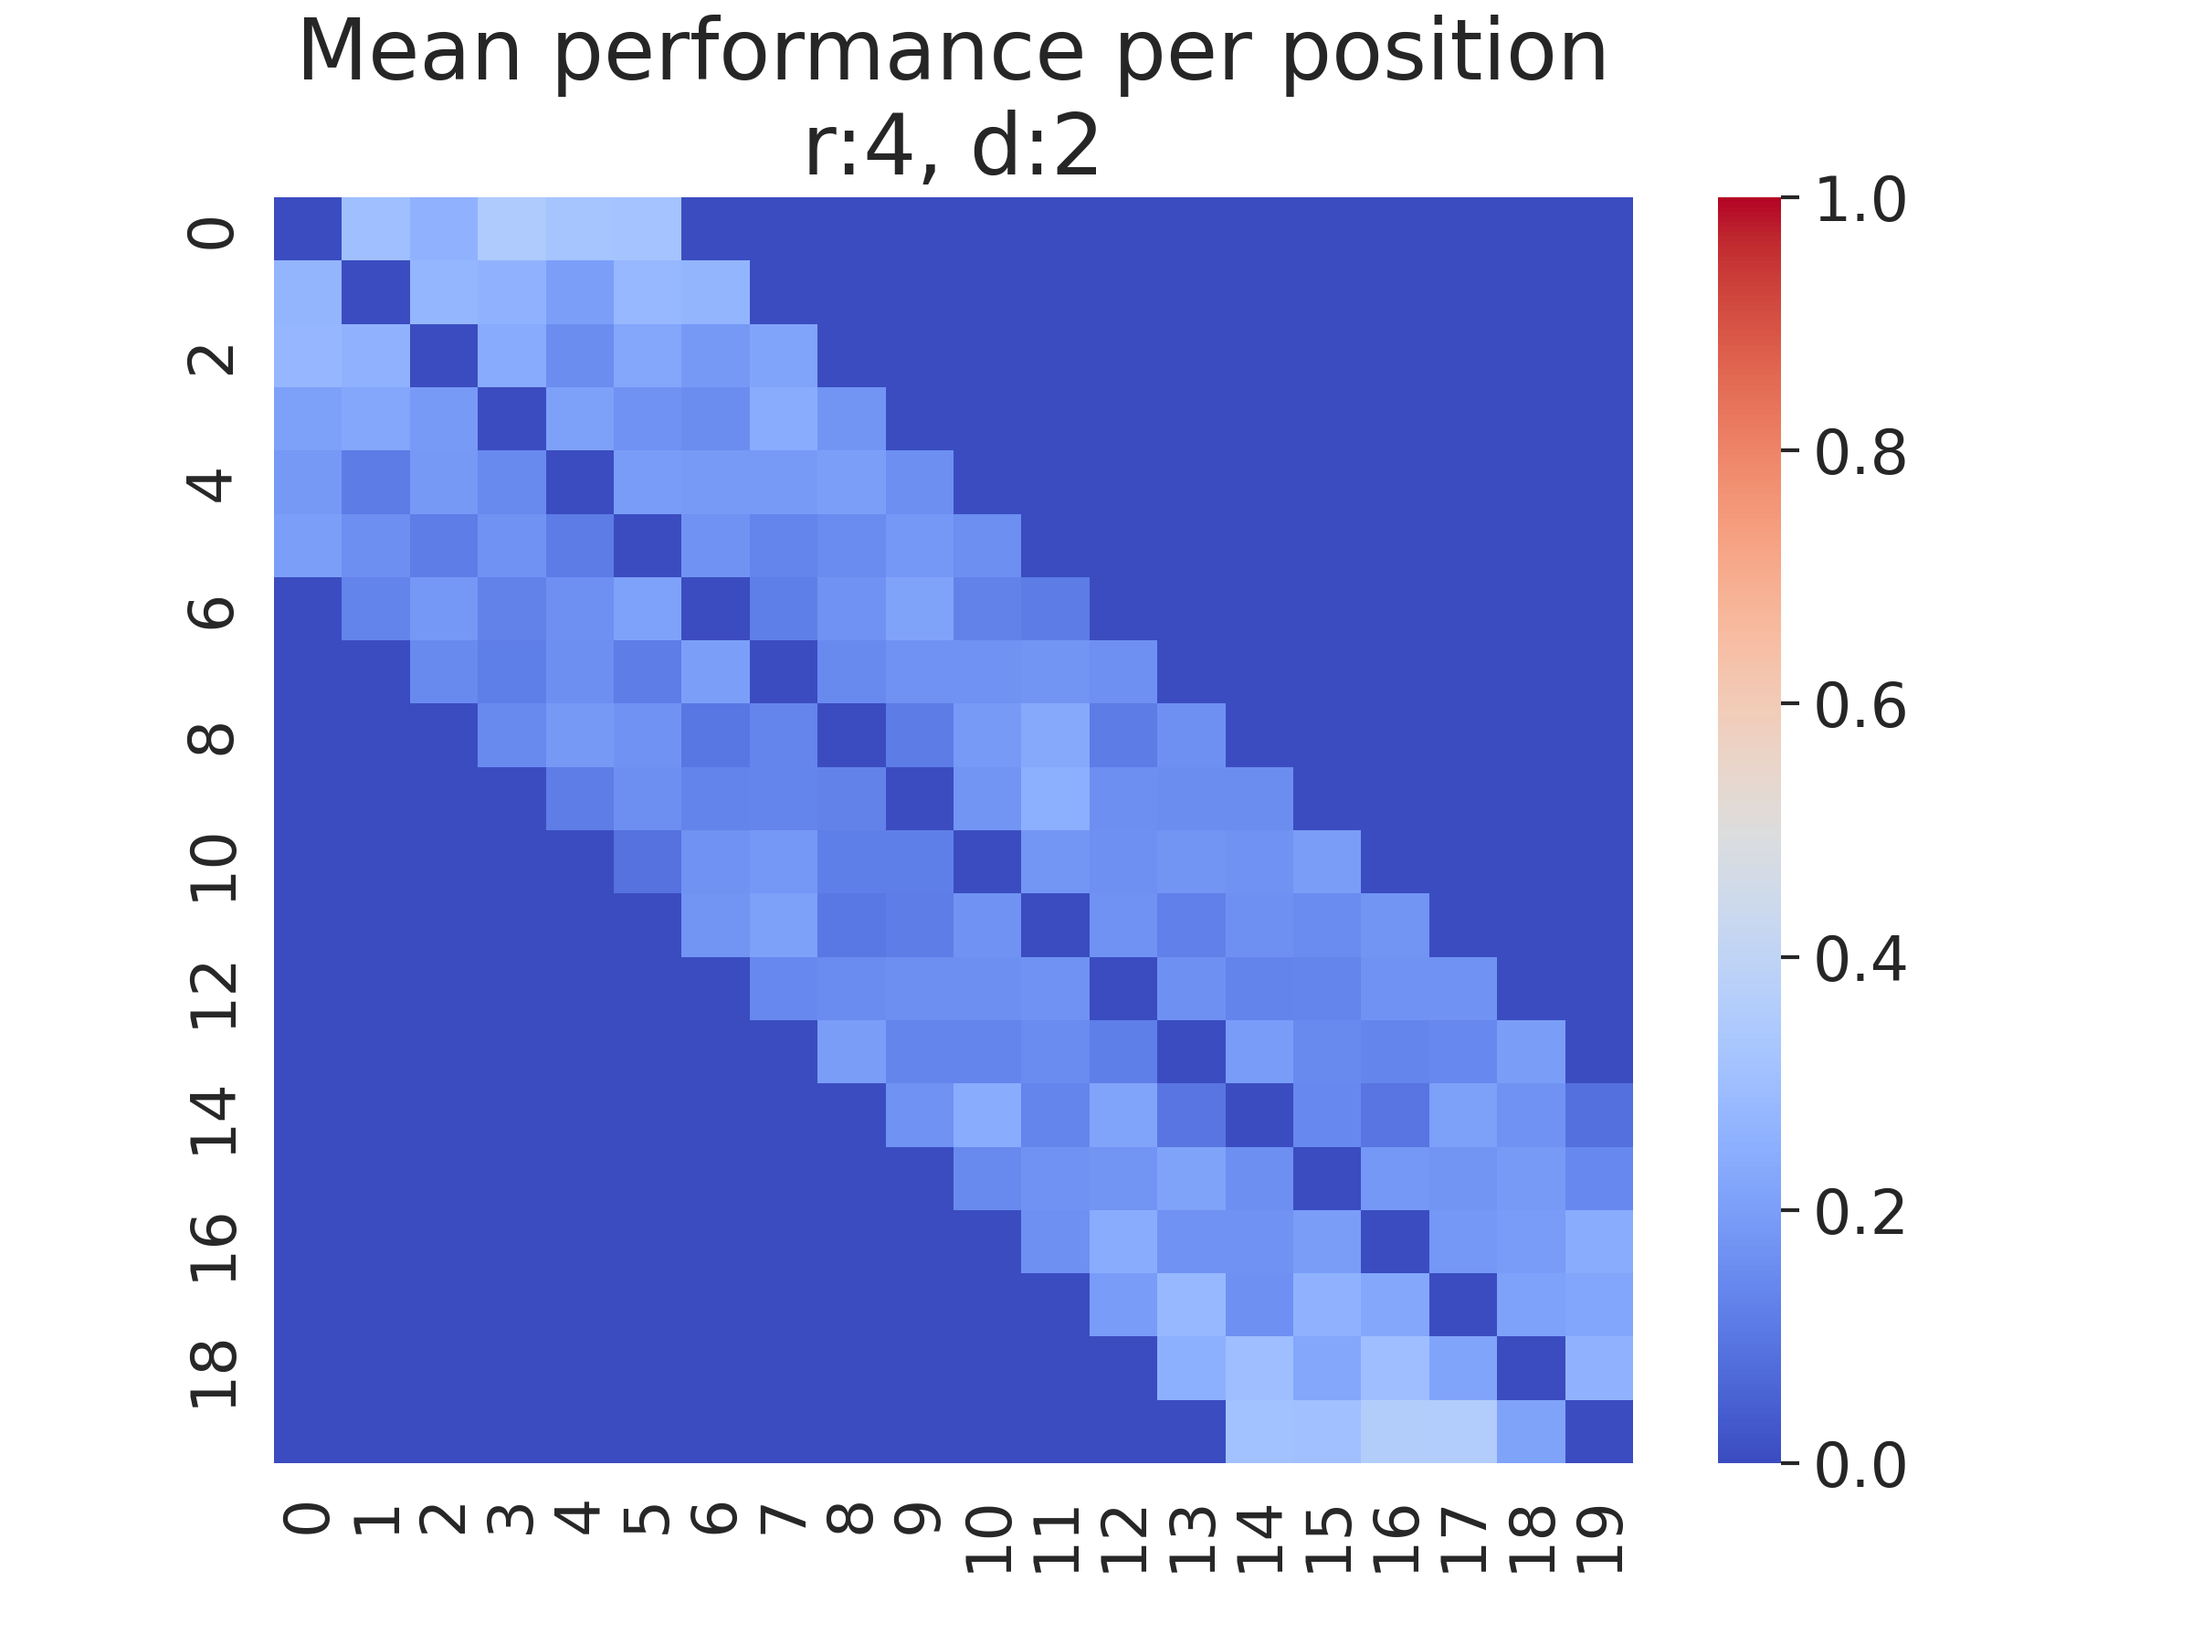
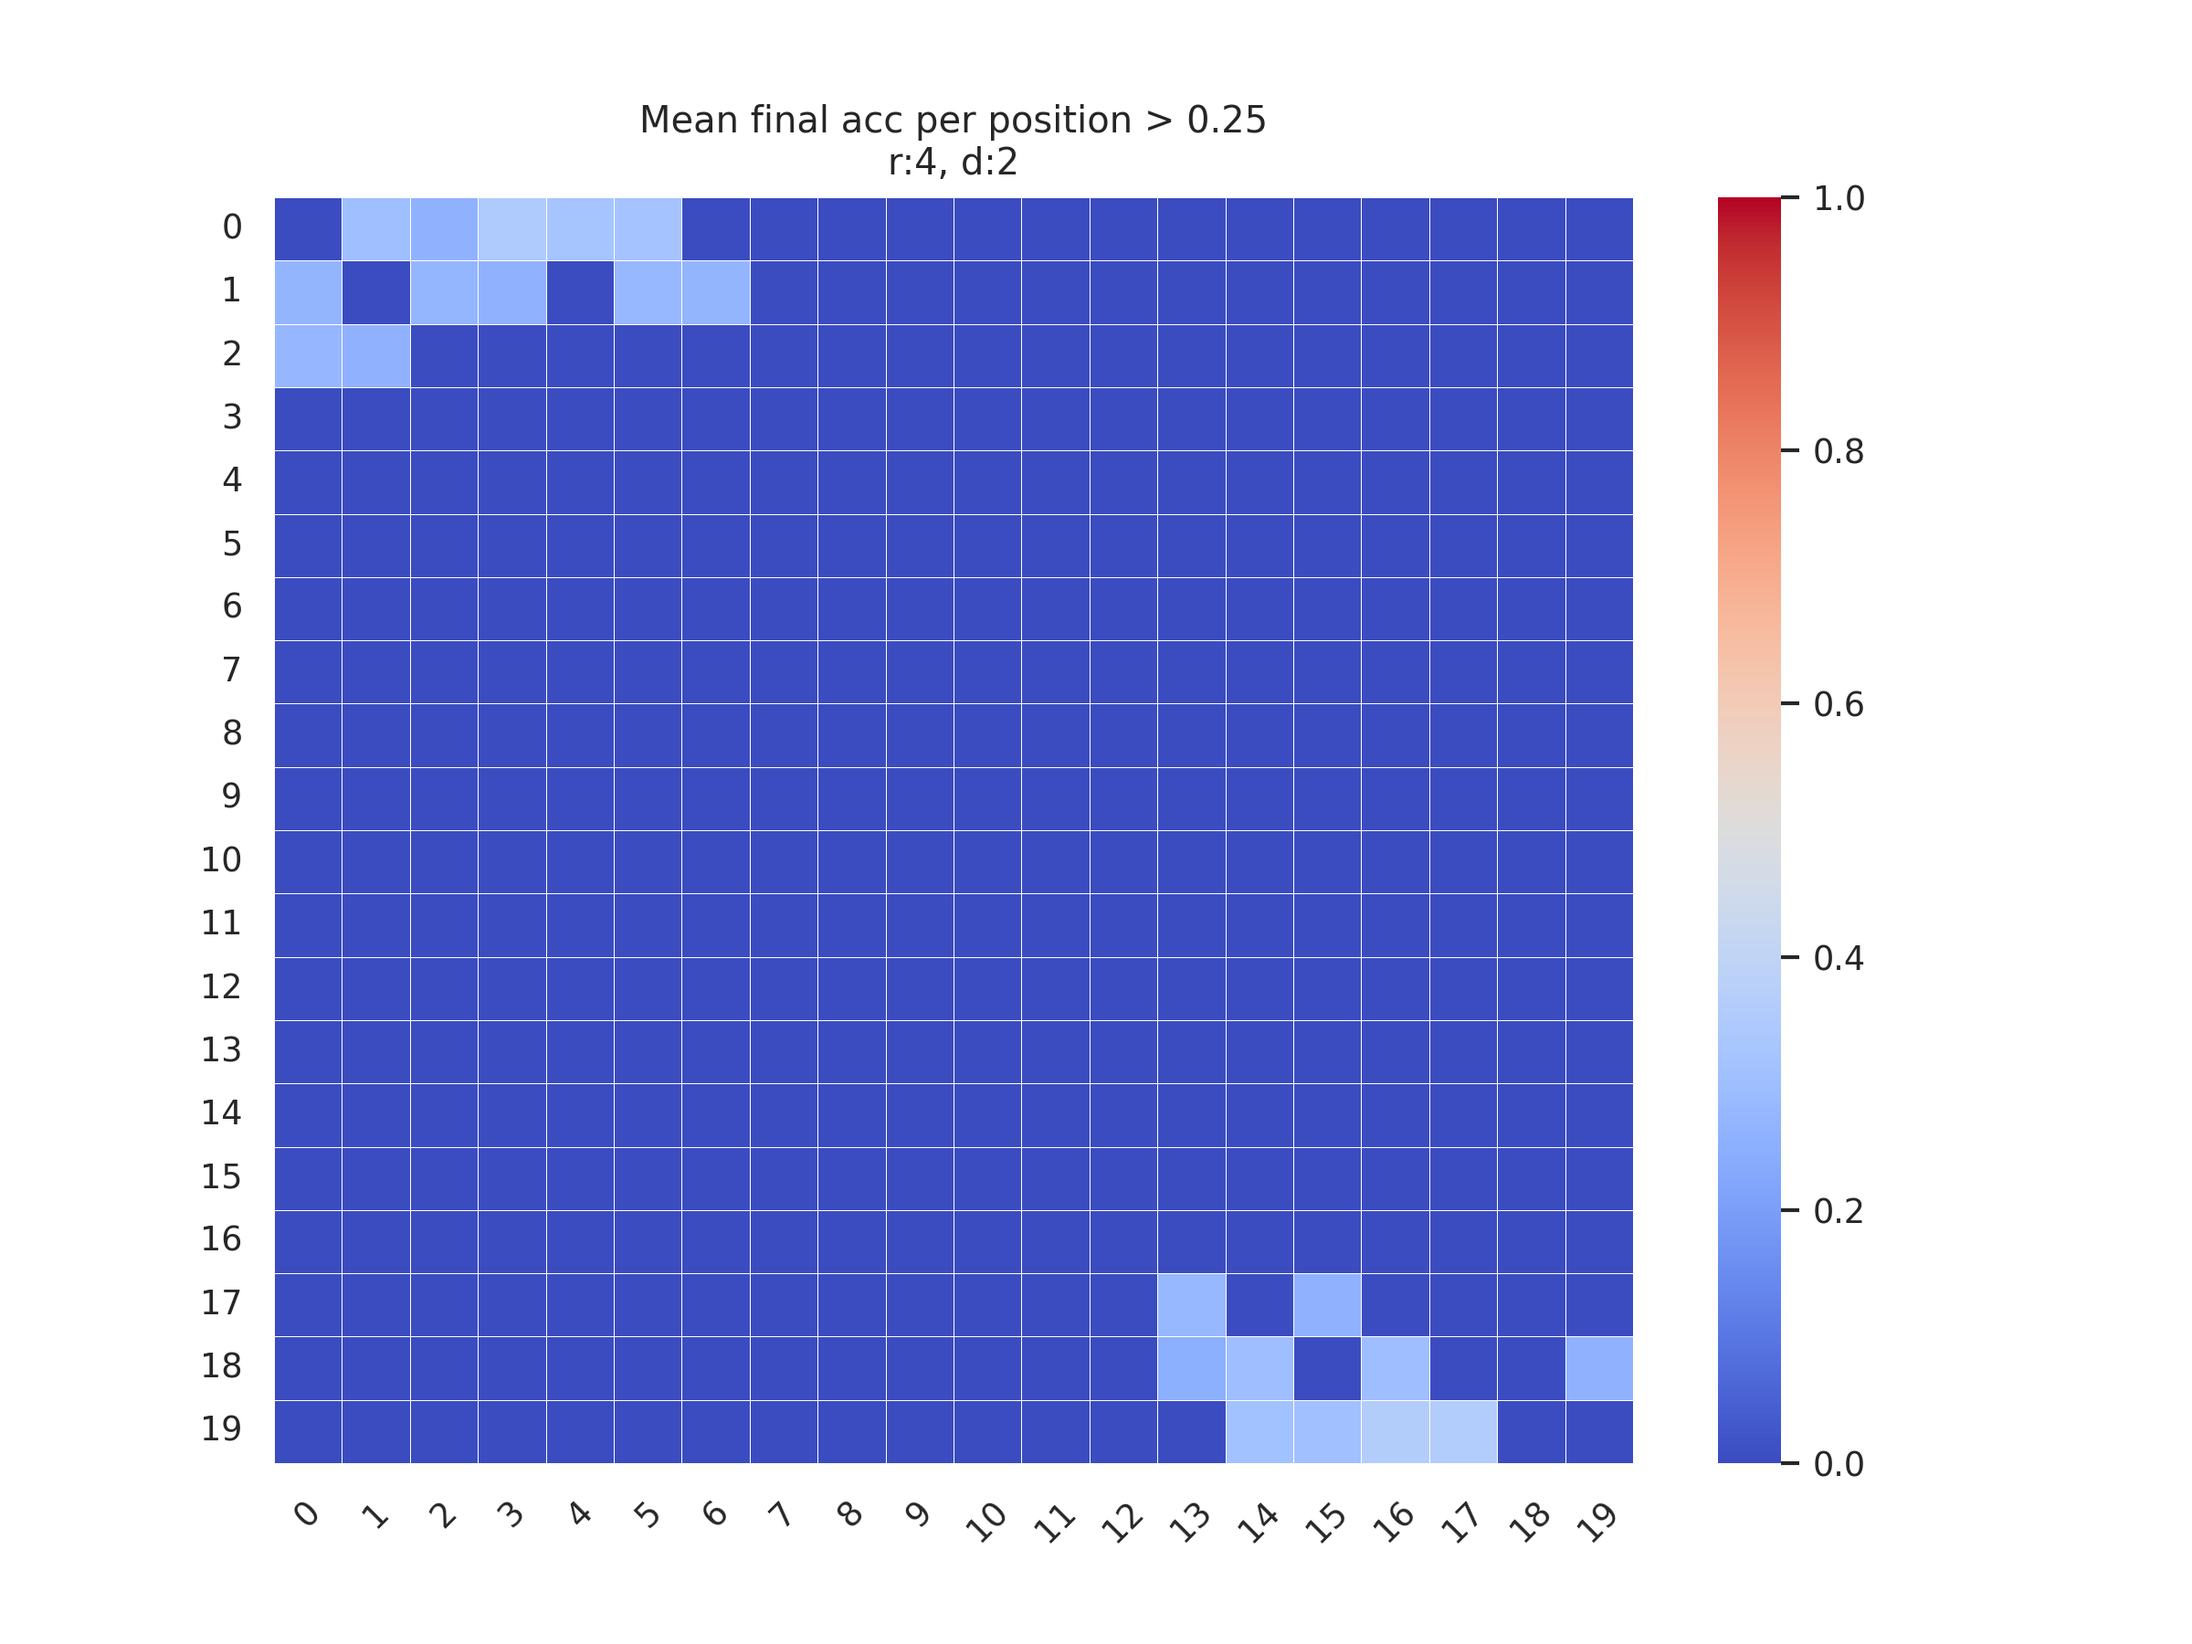
docs(exp14, topological_an): comparison pics

diff --git a/experiments/14-LSM-rope-analysis/reports/topological-analysis.md b/experiments/14-LSM-rope-analysis/reports/topological-analysis.md
@@ -1,15 +1,15 @@
 # Topological Analysis
 
-### The signal
+### The Signal
 The signal on which the network was trained consists of a constant baseline and alternating fragments whose frequency can be one of two possible
 
-## The  network
+## The Network
 
 <img src='./imgs/network1.png'>
 
 The neural network is a Liquid State Machine (LSM) \[Maas, 2002\], with the following characteristics.
 
-### The reservoir
+### The Reservoir
 
 * Total number of neurons: 20
 * Number of input neurons: 10
@@ -17,7 +17,7 @@ The neural network is a Liquid State Machine (LSM) \[Maas, 2002\], with the foll
 * Weights values randomly assigned (Normal)
 * Synaptic connections with decay
    * Randomly distributed (Normal)
-   * decay function: $g[t+1] = g[t] * q$, with $g$ synaptic gain (conductance) and $q \in [0,1]$, decay rate.
+   * decay function: $g[t+1] = q \cdot g[t]$, with $g$ synaptic gain (conductance) and $q \in [0, 1]$ decay rate.
    * decay rate: .25
 
 ### The Readout
@@ -34,7 +34,7 @@ At each training step the network receives a signal element.
 The network subsequently completes an entire propagation step between the layers until a prediction is reached.  
 A buffer of a specific size, sequentially collects a specific amount of network outputs.
 
-### The loss computation
+### The Loss Computation
 At a specific step interval, $l_{scope}$ (250), the loss is calculated over the the whole buffer.
 
 
@@ -55,17 +55,25 @@ The performance metrics chosen here is the average prediction accuracy in the la
 ## Visualization
 Below we see a representation of the average performance obtained by connection position on the adjacency matrix.
 
-Each graph was obtained by multiplying the binary adjacency matrix of each run by $acc_{10p}$ and finally averaging for each cell.
+<img src='./topological_analysis/perf_x_pos-mean.png'>
+<!-- Each graph was obtained by multiplying the binary adjacency matrix of each run by $acc_{10p}$ and finally averaging for each cell.
 
 <img src='./topological_analysis/avg_acc_per_pos-ressize_20-d_1-r_4.png' width=50%>
 <img src='./topological_analysis/avg_acc_per_pos-ressize_20-d_2-r_4.png' width=50%>
 <img src='./topological_analysis/avg_acc_per_pos-ressize_20-d_3-r_4.png' width=50%>
 <img src='./topological_analysis/avg_acc_per_pos-ressize_20-d_4-r_4.png' width=50%>
+<img src='./topological_analysis/avg_acc_per_pos-ressize_20-d_3-r_3.png' width=50%> -->
 
 
-Here below we see reported the same values as in the graphs above, but filtered by $acc_{10p}$ > 0.25
+<!-- Here below we see reported the same values as in the graphs above, but filtered by $acc_{10p}$ > 0.25
 
 <img src='./topological_analysis/avg_acc_per_pos-ressize_20-d_1-r_4-25pc.png' width=50%>
 <img src='./topological_analysis/avg_acc_per_pos-ressize_20-d_2-r_4-25pc.png' width=50%>
 <img src='./topological_analysis/avg_acc_per_pos-ressize_20-d_3-r_4-25pc.png' width=50%>
 <img src='./topological_analysis/avg_acc_per_pos-ressize_20-d_4-r_4-25pc.png' width=50%>
+<img src='./topological_analysis/avg_acc_per_pos-ressize_20-d_3-r_3-25pc.png' width=50%> -->
+
+
+Here below we see the top neurons by mean performance
+
+<img src='./topological_analysis/top_perf_x_pos-mean.png'>
